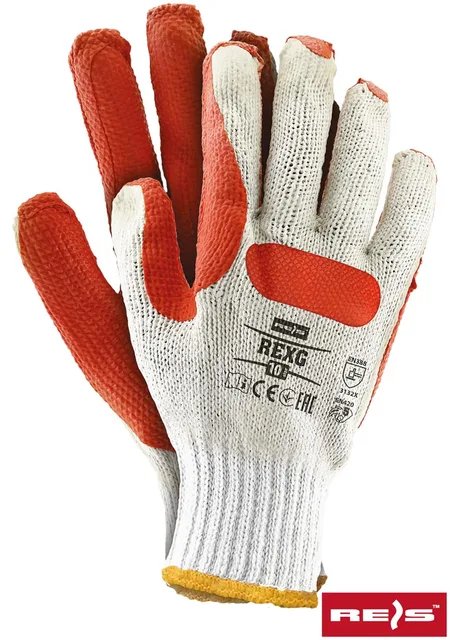
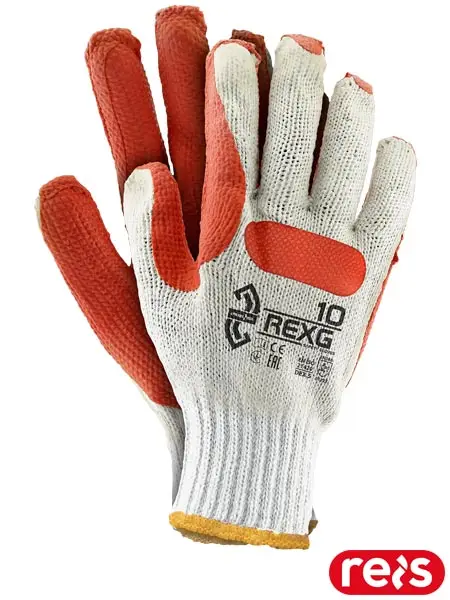
Backed up images

diff --git a/scripts/download-export.js b/scripts/download-export.js
@@ -1,0 +1,178 @@
+/**
+ * Download all data and images from Convex, persisting images into
+ * public/product-images/large/ and public/product-images/thumbnails/.
+ *
+ * Prerequisites:
+ *   - .env.local with NEXT_PUBLIC_CONVEX_URL
+ *   - Convex deployment must be running (npx convex dev or deployed)
+ *
+ * Usage:
+ *   node scripts/download-export.js
+ *   # or with dotenv:
+ *   npx dotenv -e .env.local -- node scripts/download-export.js
+ *
+ * Output:
+ *   - backups/export-YYYY-MM-DD-HHMMSS/data.json (products, categories, subcategories)
+ *   - backups/export-YYYY-MM-DD-HHMMSS/manifest.json (image-to-product mapping)
+ *   - public/product-images/large/*.webp
+ *   - public/product-images/thumbnails/*.webp
+ */
+
+const fs = require("fs");
+const path = require("path");
+const https = require("https");
+const http = require("http");
+
+try {
+  require("dotenv").config({ path: ".env.local" });
+} catch {
+  // dotenv optional
+}
+
+const CONVEX_URL =
+  process.env.NEXT_PUBLIC_CONVEX_URL || process.env.CONVEX_URL;
+
+if (!CONVEX_URL) {
+  console.error(
+    "Error: NEXT_PUBLIC_CONVEX_URL or CONVEX_URL must be set (e.g. in .env.local)"
+  );
+  process.exit(1);
+}
+
+async function fetchJson(url, options = {}) {
+  const res = await fetch(url, options);
+  if (!res.ok) {
+    throw new Error(`HTTP ${res.status}: ${await res.text()}`);
+  }
+  return res.json();
+}
+
+async function downloadToFile(url, destPath) {
+  return new Promise((resolve, reject) => {
+    const protocol = url.startsWith("https") ? https : http;
+    const file = fs.createWriteStream(destPath, { flags: "w" });
+    protocol
+      .get(url, (res) => {
+        if (res.statusCode === 302 || res.statusCode === 301) {
+          const redirect = res.headers.location;
+          file.close();
+          fs.unlinkSync(destPath);
+          resolve(downloadToFile(redirect, destPath));
+          return;
+        }
+        if (res.statusCode !== 200) {
+          file.close();
+          fs.unlinkSync(destPath);
+          reject(new Error(`HTTP ${res.statusCode} for ${url}`));
+          return;
+        }
+        res.pipe(file);
+        file.on("finish", () => {
+          file.close();
+          resolve();
+        });
+      })
+      .on("error", (err) => {
+        file.close();
+        try {
+          fs.unlinkSync(destPath);
+        } catch {}
+        reject(err);
+      });
+  });
+}
+
+async function main() {
+  const { ConvexHttpClient } = require("convex/browser");
+
+  const client = new ConvexHttpClient(CONVEX_URL);
+
+  console.log("Fetching export data from Convex...");
+  const result = await client.action("export:exportAllData", {});
+
+  const now = new Date();
+  const dateStr = now.toISOString().slice(0, 10);
+  const timeStr = now.toTimeString().slice(0, 8).replace(/:/g, "");
+  const exportDir = path.join(
+    process.cwd(),
+    "backups",
+    `export-${dateStr}-${timeStr}`
+  );
+  const dataDir = path.join(exportDir, "data");
+  const largeDir = path.join(process.cwd(), "public", "product-images", "large");
+  const thumbDir = path.join(
+    process.cwd(),
+    "public",
+    "product-images",
+    "thumbnails"
+  );
+
+  fs.mkdirSync(dataDir, { recursive: true });
+  fs.mkdirSync(largeDir, { recursive: true });
+  fs.mkdirSync(thumbDir, { recursive: true });
+
+  // Write data JSON
+  const dataPayload = {
+    exportedAt: new Date().toISOString(),
+    products: result.products,
+    categories: result.categories,
+    subcategories: result.subcategories,
+  };
+  fs.writeFileSync(
+    path.join(dataDir, "data.json"),
+    JSON.stringify(dataPayload, null, 2),
+    "utf8"
+  );
+  console.log(`  Wrote ${dataDir}/data.json`);
+
+  // Write manifest
+  fs.writeFileSync(
+    path.join(exportDir, "manifest.json"),
+    JSON.stringify(
+      {
+        exportedAt: new Date().toISOString(),
+        imageCount: result.imageManifest.length,
+        manifest: result.imageManifest,
+      },
+      null,
+      2
+    ),
+    "utf8"
+  );
+  console.log(`  Wrote ${exportDir}/manifest.json`);
+
+  // Download images
+  const manifest = result.imageManifest;
+  let ok = 0;
+  let fail = 0;
+
+  for (let i = 0; i < manifest.length; i++) {
+    const entry = manifest[i];
+    const dir = entry.variant === "large" ? largeDir : thumbDir;
+    const destPath = path.join(dir, entry.filename);
+
+    try {
+      await downloadToFile(entry.url, destPath);
+      ok++;
+      if ((i + 1) % 10 === 0 || i === manifest.length - 1) {
+        process.stdout.write(`\r  Downloaded ${i + 1}/${manifest.length} images`);
+      }
+    } catch (err) {
+      fail++;
+      console.error(`\n  Failed: ${entry.filename} - ${err.message}`);
+    }
+  }
+
+  console.log(`\n\nDone.`);
+  console.log(`  Data: ${dataDir}/data.json`);
+  console.log(`  Manifest: ${exportDir}/manifest.json`);
+  console.log(`  Images: ${ok} saved to public/product-images/{large,thumbnails}/`);
+  if (fail > 0) {
+    console.log(`  Failed: ${fail} images`);
+  }
+}
+
+main().catch((err) => {
+  console.error("Error:", err.message);
+  process.exit(1);
+});

diff --git a/convex/export.ts b/convex/export.ts
@@ -1,0 +1,122 @@
+import { action } from './_generated/server';
+import { api } from './_generated/api';
+import { getProductImageEntries } from './lib/helpers';
+import { slugifyDisplayName } from './lib/slugify';
+import type { ProductDoc } from './lib/types';
+
+export type ImageExportEntry = {
+  storageId: string;
+  productKod: string;
+  productNazwa: string;
+  imageIndex: number;
+  variant: 'large' | 'thumbnail';
+  url: string;
+  /** Filename for public/product-images/{large|thumbnails}/ */
+  filename: string;
+};
+
+export type ExportResult = {
+  products: ProductDoc[];
+  categories: { _id: string; slug: string; titleKey: string; displayName?: string; createdAt?: number }[];
+  subcategories: { _id: string; categorySlug: string; slug: string; displayName: string; order?: number; createdAt?: number }[];
+  imageManifest: ImageExportEntry[];
+};
+
+/** Sanitize Kod for filename: remove path chars, limit length. */
+function sanitizeKod(s: string): string {
+  return (
+    s
+      .replace(/[/\\:*?"<>|]/g, '')
+      .replace(/\.\./g, '')
+      .trim()
+      .slice(0, 80) || 'product'
+  );
+}
+
+/**
+ * Export all data + image URLs for download. Used by scripts/download-export.js.
+ * URLs are short-lived (~1h); run the download script immediately after.
+ */
+export const exportAllData = action({
+  args: {},
+  handler: async (ctx): Promise<ExportResult> => {
+    const [products, categories, subcategories] = await Promise.all([
+      ctx.runQuery(api.catalog.listAllProductsForExport, {}),
+      ctx.runQuery(api.catalog.listCategories, {}),
+      ctx.runQuery(api.catalog.listAllSubcategoriesForExport, {}),
+    ]);
+
+    const imageManifest: ImageExportEntry[] = [];
+    const seenStorageIds = new Set<string>();
+    const usedFilenames = new Set<string>();
+
+    function uniqueFilename(
+      base: string,
+      suffix: string,
+      variant: 'large' | 'thumbnail',
+    ): string {
+      const ext = variant === 'thumbnail' ? '-thumb.webp' : '.webp';
+      let candidate = `${base}${suffix}${ext}`;
+      let n = 0;
+      while (usedFilenames.has(candidate)) {
+        n++;
+        candidate = `${base}${suffix}-${n}${ext}`;
+      }
+      usedFilenames.add(candidate);
+      return candidate;
+    }
+
+    for (const p of products) {
+      const entries = getProductImageEntries(p);
+      const kod = sanitizeKod(p.Kod);
+      const nazwaSlug = slugifyDisplayName(p.Nazwa ?? '').slice(0, 50);
+      const base = nazwaSlug ? `${kod}-${nazwaSlug}` : kod;
+
+      for (let i = 0; i < entries.length; i++) {
+        const e = entries[i];
+        const suffix = entries.length > 1 ? `-${i}` : '';
+
+        // Large image
+        if (!seenStorageIds.has(e.imageStorageId)) {
+          seenStorageIds.add(e.imageStorageId);
+          const url = await ctx.storage.getUrl(e.imageStorageId);
+          if (url) {
+            imageManifest.push({
+              storageId: e.imageStorageId,
+              productKod: p.Kod,
+              productNazwa: p.Nazwa ?? '',
+              imageIndex: i,
+              variant: 'large',
+              url,
+              filename: uniqueFilename(base, suffix, 'large'),
+            });
+          }
+        }
+
+        // Thumbnail
+        if (e.thumbnailStorageId && !seenStorageIds.has(e.thumbnailStorageId)) {
+          seenStorageIds.add(e.thumbnailStorageId);
+          const url = await ctx.storage.getUrl(e.thumbnailStorageId);
+          if (url) {
+            imageManifest.push({
+              storageId: e.thumbnailStorageId,
+              productKod: p.Kod,
+              productNazwa: p.Nazwa ?? '',
+              imageIndex: i,
+              variant: 'thumbnail',
+              url,
+              filename: uniqueFilename(base, suffix, 'thumbnail'),
+            });
+          }
+        }
+      }
+    }
+
+    return {
+      products,
+      categories,
+      subcategories,
+      imageManifest,
+    };
+  },
+});

diff --git a/convex/catalog.ts b/convex/catalog.ts
@@ -124,6 +124,18 @@ export const getProductItemByKod = query({
   },
 });
 
+/** List all products (raw docs) for export. Used by export action. */
+export const listAllProductsForExport = query({
+  args: {},
+  handler: async (ctx) => ctx.db.query("products").collect(),
+});
+
+/** List all subcategories for export. */
+export const listAllSubcategoriesForExport = query({
+  args: {},
+  handler: async (ctx) => ctx.db.query("subcategories").collect(),
+});
+
 /** List subcategories for a category (for admin dropdown and product page headings). */
 export const listSubcategories = query({
   args: { categorySlug: v.string() },

diff --git a/docs/backup/EXPORT-DOWNLOAD.md b/docs/backup/EXPORT-DOWNLOAD.md
@@ -1,0 +1,55 @@
+# Export data and download images
+
+Create a local backup of all Convex data (products, categories, subcategories) and download all product images into `public/product-images/`. Non-destructive: read-only, does not modify Convex.
+
+## Prerequisites
+
+- `npx convex dev` running (or deployment already up to date)
+- `.env.local` with `NEXT_PUBLIC_CONVEX_URL`
+
+## Commands
+
+### 1. Ensure Convex is deployed
+
+```bash
+npx convex dev
+```
+
+Leave it running briefly so the export action is pushed, or run `npx convex dev --once` if you prefer a one-off push.
+
+### 2. Run the export + download script
+
+```bash
+npm run export:download
+```
+
+Or directly:
+
+```bash
+node scripts/download-export.js
+```
+
+## What it does
+
+1. **Convex action** `exportAllData` – reads all products, categories, subcategories; generates temporary URLs for each image in storage.
+2. **Script** – fetches the data, downloads each image via HTTP, saves to disk.
+
+## Output
+
+| Location | Contents |
+|----------|----------|
+| `backups/export-YYYY-MM-DD-HHMMSS/data/data.json` | Products, categories, subcategories (JSON) |
+| `backups/export-YYYY-MM-DD-HHMMSS/manifest.json` | Image-to-product mapping (storageId → Kod, filename, etc.) |
+| `public/product-images/large/*.webp` | Large images (1920px) |
+| `public/product-images/thumbnails/*.webp` | Thumbnails (640px) |
+
+## Incremental vs full download
+
+**Current behavior: the script re-downloads all images every time.** It does not check for existing files or skip ones you already have. Each run overwrites the `large/` and `thumbnails/` folders with a fresh full set.
+
+If you only added a few new products since the last run, you will still re-download everything. For ~480 images this takes about 2 minutes. If you need incremental downloads (only new images), the script would need to be updated to skip files that already exist.
+
+## Where things live
+
+- **`backups/`** – gitignored. Local only, not on GitHub or Vercel.
+- **`public/product-images/large` and `thumbnails`** – in `.vercelignore` only. On GitHub, but excluded from Vercel deployments. The app uses Convex URLs, not these local files.